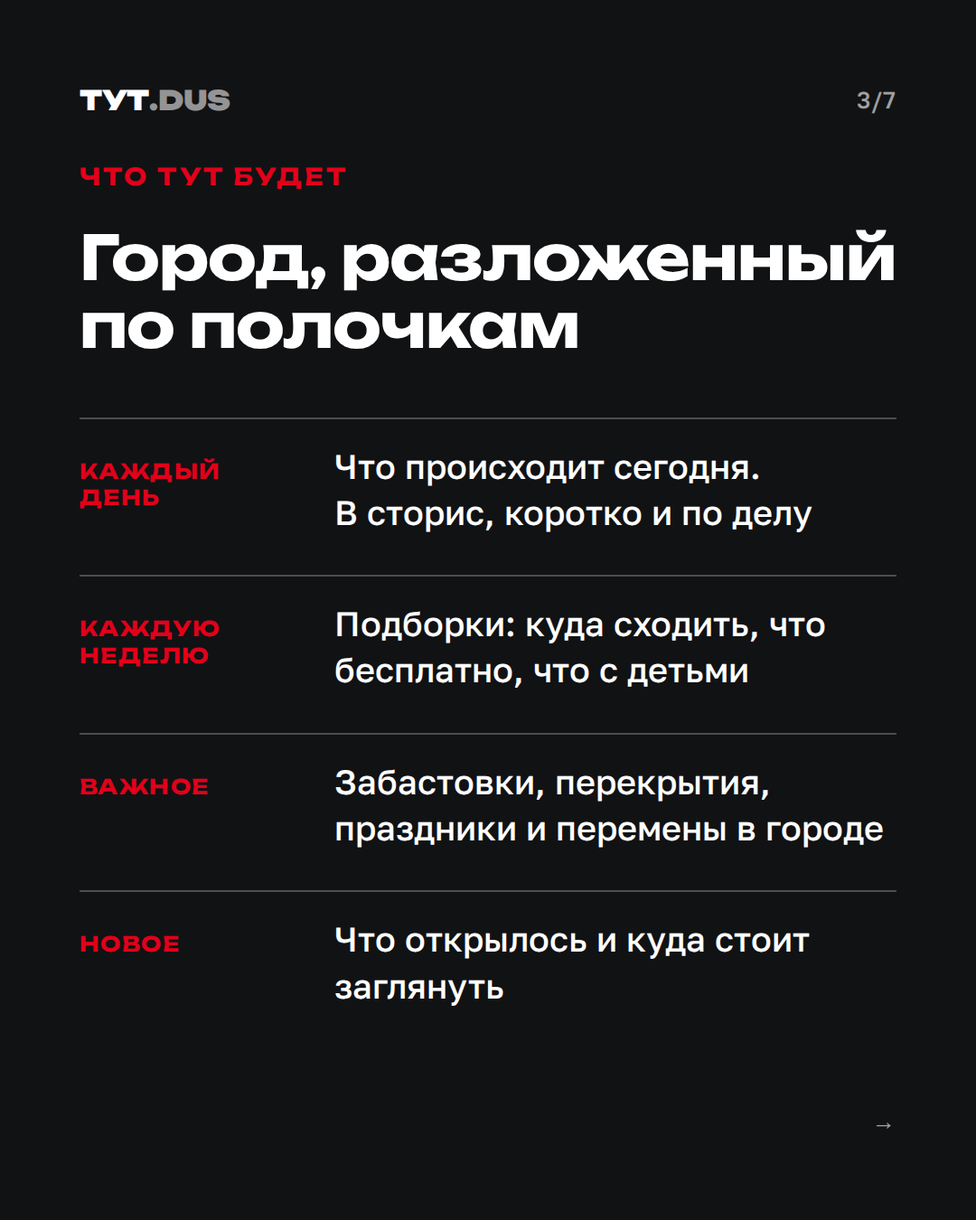
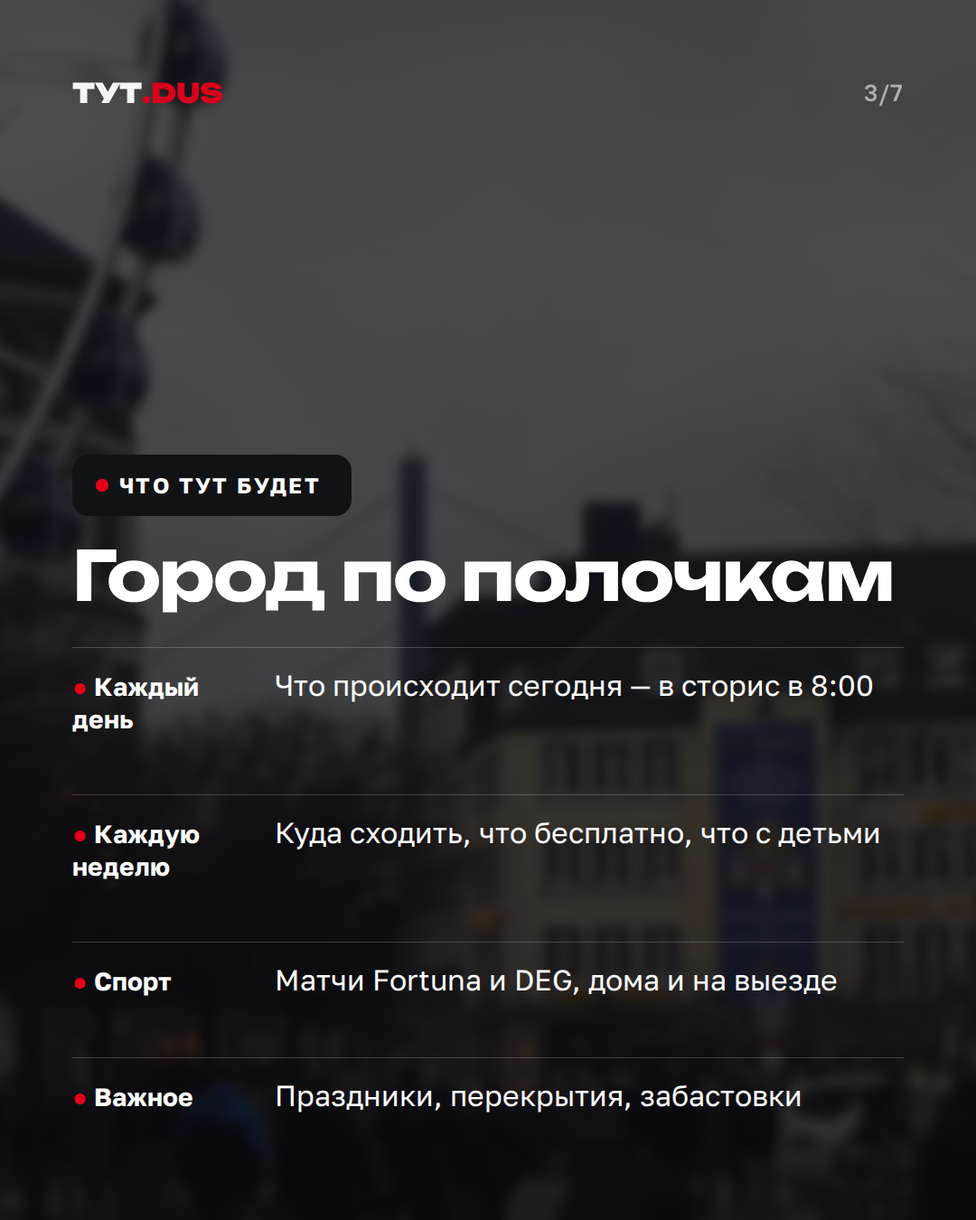
Design v2: city photos as background, red only as accent
Intro carousel, derby story and category stories re-rendered in v2
(design/v2.css). Commons photo credits added to the intro caption.

Claude-Session: https://claude.ai/code/session_01UxqiuRyKATWs1Brw29vXzP

diff --git a/design/stories-categories.html b/design/stories-categories.html
@@ -1,74 +1,34 @@
-<!doctype html>
-<html lang="ru"><head><meta charset="utf-8"><title>ТУТ.DUS — сторис категорий</title>
-<link rel="stylesheet" href="brand.css">
-<style>
-  /* Сторис 1080×1920. Сверху ~250px и снизу ~340px занимает интерфейс Instagram — там ничего важного. */
-  .story { height: 1920px; padding: 300px 88px 360px; justify-content: flex-start }
-  .story .icon { width: 200px; height: 200px; border-radius: 50%; border: 6px solid rgba(255,255,255,.9);
-    display: grid; place-items: center; margin-bottom: 64px }
-  .story .icon svg { width: 120px; height: 120px; fill: none; stroke: #fff; stroke-linecap: round; stroke-linejoin: round }
-  .story .icon-txt { font: 900 96px/1 var(--display); letter-spacing: -.03em }
-  .story .icon-txt small { font-size: 50px }
-  .story h1 { font-size: 96px }
-  .story .list { margin-top: 72px }
-  .story .item { grid-template-columns: 1fr; border-color: rgba(255,255,255,.3) }
-  .story .item .v { font-size: 40px }
-  .story .eyebrow { color: #fff; opacity: .75 }
-</style></head><body>
-<section class="slide red story" id="story-about">
-  <div class="icon"><svg viewBox="0 0 100 100" style="stroke-width:6"><path d="M50 92 C50 92 20 60 20 40 a30 30 0 0 1 60 0 C80 60 50 92 50 92Z"/><circle cx="50" cy="40" r="10"/></svg></div>
-  <div class="eyebrow">Актуальное · О нас</div>
-  <h1>ТУТ.DUS</h1>
-  <p class="lead">Дюссельдорф на русском: что происходит сегодня, куда пойти и&nbsp;к&nbsp;кому обратиться.</p>
-  <div class="list"><div class="item"><span class="v">Только про город</span></div><div class="item"><span class="v">Места в рейтингах не продаются</span></div><div class="item"><span class="v">Реклама всегда с пометкой</span></div></div>
-  <div class="bottom"><span class="logo">ТУТ<i>.DUS</i></span><span class="muted">@tut.dus</span></div>
-</section>
-<section class="slide red story" id="story-events">
-  <div class="icon"><svg viewBox="0 0 100 100" style="stroke-width:6"><rect x="14" y="20" width="72" height="66" rx="10"/><path d="M14 40 H86 M34 12 V28 M66 12 V28"/><circle cx="36" cy="60" r="3" fill="#fff"/><circle cx="50" cy="60" r="3" fill="#fff"/><circle cx="64" cy="60" r="3" fill="#fff"/><circle cx="36" cy="74" r="3" fill="#fff"/></svg></div>
-  <div class="eyebrow">Актуальное · Афиша</div>
-  <h1>Главное в&nbsp;городе</h1>
-  <p class="lead">Концерты, выставки, рынки и&nbsp;фестивали. Самое интересное за&nbsp;месяц.</p>
-  <div class="list"><div class="item"><span class="v">Сегодня — в сторис каждый день</span></div><div class="item"><span class="v">Неделя в городе — по понедельникам</span></div></div>
-  <div class="bottom"><span class="logo">ТУТ<i>.DUS</i></span><span class="muted">@tut.dus</span></div>
-</section>
-<section class="slide red story" id="story-free">
-  <div class="icon"><div class="txt icon-txt">0<small>€</small></div></div>
-  <div class="eyebrow">Актуальное · Бесплатно</div>
-  <h1>Город без&nbsp;билетов</h1>
-  <p class="lead">Бесплатные события, музеи и&nbsp;места, куда стоит заглянуть.</p>
-  <div class="list"><div class="item"><span class="v">Дни бесплатных музеев</span></div><div class="item"><span class="v">Праздники и уличные фестивали</span></div></div>
-  <div class="bottom"><span class="logo">ТУТ<i>.DUS</i></span><span class="muted">@tut.dus</span></div>
-</section>
-<section class="slide red story" id="story-kids">
-  <div class="icon"><svg viewBox="0 0 100 100" style="stroke-width:6"><ellipse cx="50" cy="38" rx="24" ry="28"/><path d="M46 66 L50 72 L54 66 M50 72 C44 80 56 84 50 94"/></svg></div>
-  <div class="eyebrow">Актуальное · С детьми</div>
-  <h1>Куда пойти с&nbsp;детьми</h1>
-  <p class="lead">Детские события, площадки, музеи и&nbsp;мастер-классы.</p>
-  <div class="list"><div class="item"><span class="v">По выходным и на каникулах</span></div><div class="item"><span class="v">Что бесплатно, а что по билетам</span></div></div>
-  <div class="bottom"><span class="logo">ТУТ<i>.DUS</i></span><span class="muted">@tut.dus</span></div>
-</section>
-<section class="slide red story" id="story-doctors">
-  <div class="icon"><svg viewBox="0 0 100 100" style="stroke-width:6"><path d="M38 14 H62 V38 H86 V62 H62 V86 H38 V62 H14 V38 H38 Z"/></svg></div>
-  <div class="eyebrow">Актуальное · Врачи</div>
-  <h1>Русско&shy;язычные врачи</h1>
-  <p class="lead">Справочник специалистов с&nbsp;хорошими оценками в&nbsp;Google и&nbsp;Doctolib.</p>
-  <div class="list"><div class="item"><span class="v">Скоро: напиши «врач» в директ</span></div><div class="item"><span class="v">Педиатры, стоматологи, терапевты</span></div></div>
-  <div class="bottom"><span class="logo">ТУТ<i>.DUS</i></span><span class="muted">@tut.dus</span></div>
-</section>
-<section class="slide red story" id="story-important">
-  <div class="icon"><svg viewBox="0 0 100 100" style="stroke-width:6"><path d="M50 12 L90 84 H10 Z"/><path d="M50 38 V60"/><circle cx="50" cy="72" r="3" fill="#fff"/></svg></div>
-  <div class="eyebrow">Актуальное · Важное</div>
-  <h1>Что нужно знать</h1>
-  <p class="lead">Забастовки транспорта, перекрытия, праздники и&nbsp;новые правила.</p>
-  <div class="list"><div class="item"><span class="v">Коротко и вовремя</span></div><div class="item"><span class="v">Только то, что касается жизни в городе</span></div></div>
-  <div class="bottom"><span class="logo">ТУТ<i>.DUS</i></span><span class="muted">@tut.dus</span></div>
-</section>
-<section class="slide red story" id="story-contact">
-  <div class="icon"><div class="txt icon-txt">@</div></div>
-  <div class="eyebrow">Актуальное · Связь</div>
-  <h1>Будем на&nbsp;связи</h1>
-  <p class="lead">Знаешь о&nbsp;событии? Хочешь сотрудничать? Пиши в&nbsp;директ.</p>
-  <div class="list"><div class="item"><span class="v">Организаторам и бизнесу</span></div><div class="item"><span class="v">Реклама всегда с пометкой</span></div></div>
-  <div class="bottom"><span class="logo">ТУТ<i>.DUS</i></span><span class="muted">@tut.dus</span></div>
-</section>
-</body></html>
+<!doctype html><html lang="ru"><head><meta charset="utf-8"><title>ТУТ.DUS — сторис категорий v2</title>
+<link rel="stylesheet" href="brand.css"><link rel="stylesheet" href="v2.css">
+<style> .story.v2 { height: 1920px; padding: 240px 80px 360px } .story.v2 h1 { font-size: 80px }
+  .icon { width: 150px; height: 150px; border-radius: 50%; background: rgba(255,255,255,.1); display:grid; place-items:center; margin-bottom: 40px }
+  .icon svg { width: 84px; height: 84px; fill: none; stroke: #e2001a; stroke-linecap: round; stroke-linejoin: round }
+  .icon .t { font: 900 64px/1 var(--display); color: #e2001a } .icon .t small { font-size: 34px }
+</style></head><body><section class="slide v2 story" id="story-about"><div class="bg" style="background-image:url(../library/photos/commons-rhein.jpg);filter:blur(8px);transform:scale(1.08)"></div><div class="shade full"></div>
+  <div class="top"><span class="logo">ТУТ<i>.DUS</i></span><span>@tut.dus</span></div>
+  <div class="low"><div class="icon"><svg viewBox="0 0 100 100" style="stroke-width:6"><path d="M50 92 C50 92 20 60 20 40 a30 30 0 0 1 60 0 C80 60 50 92 50 92Z"/><circle cx="50" cy="40" r="10"/></svg></div><div class="tag">Актуальное · О нас</div><h1>ТУТ.DUS</h1><p class="sub">Дюссельдорф на русском: что происходит сегодня, куда пойти и&nbsp;к&nbsp;кому обратиться.</p>
+  <div class="list"><div class="it" style="grid-template-columns:1fr"><span>Только про город</span></div><div class="it" style="grid-template-columns:1fr"><span>Места в рейтингах не продаются</span></div><div class="it" style="grid-template-columns:1fr"><span>Реклама всегда с пометкой</span></div></div></div></section>
+<section class="slide v2 story" id="story-events"><div class="bg" style="background-image:url(../library/photos/commons-burgplatz.jpg);filter:blur(8px);transform:scale(1.08)"></div><div class="shade full"></div>
+  <div class="top"><span class="logo">ТУТ<i>.DUS</i></span><span>@tut.dus</span></div>
+  <div class="low"><div class="icon"><svg viewBox="0 0 100 100" style="stroke-width:6"><rect x="14" y="20" width="72" height="66" rx="10"/><path d="M14 40 H86 M34 12 V28 M66 12 V28"/><circle cx="36" cy="60" r="3" fill="#e2001a"/><circle cx="50" cy="60" r="3" fill="#e2001a"/><circle cx="64" cy="60" r="3" fill="#e2001a"/><circle cx="36" cy="74" r="3" fill="#e2001a"/></svg></div><div class="tag">Актуальное · Афиша</div><h1>Главное в&nbsp;городе</h1><p class="sub">Концерты, выставки, рынки и&nbsp;фестивали. Самое интересное за&nbsp;месяц.</p>
+  <div class="list"><div class="it" style="grid-template-columns:1fr"><span>Сегодня — в сторис каждый день</span></div><div class="it" style="grid-template-columns:1fr"><span>Неделя в городе — по понедельникам</span></div></div></div></section>
+<section class="slide v2 story" id="story-free"><div class="bg" style="background-image:url(../library/photos/commons-altstadt.jpg);filter:blur(8px);transform:scale(1.08)"></div><div class="shade full"></div>
+  <div class="top"><span class="logo">ТУТ<i>.DUS</i></span><span>@tut.dus</span></div>
+  <div class="low"><div class="icon"><div class="t">0<small>€</small></div></div><div class="tag">Актуальное · Бесплатно</div><h1>Город без&nbsp;билетов</h1><p class="sub">Бесплатные события, музеи и&nbsp;места, куда стоит заглянуть.</p>
+  <div class="list"><div class="it" style="grid-template-columns:1fr"><span>Дни бесплатных музеев</span></div><div class="it" style="grid-template-columns:1fr"><span>Праздники и уличные фестивали</span></div></div></div></section>
+<section class="slide v2 story" id="story-kids"><div class="bg" style="background-image:url(../library/photos/commons-rhein.jpg);filter:blur(8px);transform:scale(1.08)"></div><div class="shade full"></div>
+  <div class="top"><span class="logo">ТУТ<i>.DUS</i></span><span>@tut.dus</span></div>
+  <div class="low"><div class="icon"><svg viewBox="0 0 100 100" style="stroke-width:6"><ellipse cx="50" cy="38" rx="24" ry="28"/><path d="M46 66 L50 72 L54 66 M50 72 C44 80 56 84 50 94"/></svg></div><div class="tag">Актуальное · С детьми</div><h1>Куда пойти с&nbsp;детьми</h1><p class="sub">Детские события, площадки, музеи и&nbsp;мастер-классы.</p>
+  <div class="list"><div class="it" style="grid-template-columns:1fr"><span>По выходным и на каникулах</span></div><div class="it" style="grid-template-columns:1fr"><span>Что бесплатно, а что по билетам</span></div></div></div></section>
+<section class="slide v2 story" id="story-doctors"><div class="bg" style="background-image:url(../library/photos/commons-burgplatz.jpg);filter:blur(8px);transform:scale(1.08)"></div><div class="shade full"></div>
+  <div class="top"><span class="logo">ТУТ<i>.DUS</i></span><span>@tut.dus</span></div>
+  <div class="low"><div class="icon"><svg viewBox="0 0 100 100" style="stroke-width:6"><path d="M38 14 H62 V38 H86 V62 H62 V86 H38 V62 H14 V38 H38 Z"/></svg></div><div class="tag">Актуальное · Врачи</div><h1>Русско&shy;язычные врачи</h1><p class="sub">Справочник специалистов с&nbsp;хорошими оценками в&nbsp;Google и&nbsp;Doctolib.</p>
+  <div class="list"><div class="it" style="grid-template-columns:1fr"><span>Скоро: напиши «врач» в директ</span></div><div class="it" style="grid-template-columns:1fr"><span>Педиатры, стоматологи, терапевты</span></div></div></div></section>
+<section class="slide v2 story" id="story-important"><div class="bg" style="background-image:url(../library/photos/commons-altstadt.jpg);filter:blur(8px);transform:scale(1.08)"></div><div class="shade full"></div>
+  <div class="top"><span class="logo">ТУТ<i>.DUS</i></span><span>@tut.dus</span></div>
+  <div class="low"><div class="icon"><svg viewBox="0 0 100 100" style="stroke-width:6"><path d="M50 12 L90 84 H10 Z"/><path d="M50 38 V60"/><circle cx="50" cy="72" r="3" fill="#e2001a"/></svg></div><div class="tag">Актуальное · Важное</div><h1>Что нужно знать</h1><p class="sub">Забастовки транспорта, перекрытия, праздники и&nbsp;новые правила.</p>
+  <div class="list"><div class="it" style="grid-template-columns:1fr"><span>Коротко и вовремя</span></div><div class="it" style="grid-template-columns:1fr"><span>Только то, что касается жизни в городе</span></div></div></div></section>
+<section class="slide v2 story" id="story-contact"><div class="bg" style="background-image:url(../library/photos/commons-rhein.jpg);filter:blur(8px);transform:scale(1.08)"></div><div class="shade full"></div>
+  <div class="top"><span class="logo">ТУТ<i>.DUS</i></span><span>@tut.dus</span></div>
+  <div class="low"><div class="icon"><div class="t">@</div></div><div class="tag">Актуальное · Связь</div><h1>Будем на&nbsp;связи</h1><p class="sub">Знаешь о&nbsp;событии? Хочешь сотрудничать? Пиши в&nbsp;директ.</p>
+  <div class="list"><div class="it" style="grid-template-columns:1fr"><span>Организаторам и бизнесу</span></div><div class="it" style="grid-template-columns:1fr"><span>Реклама всегда с пометкой</span></div></div></div></section></body></html>

diff --git a/design/01-intro-v2.html b/design/01-intro-v2.html
@@ -1,0 +1,59 @@
+<!doctype html><html lang="ru"><head><meta charset="utf-8"><title>ТУТ.DUS — вводный пост v2</title>
+<link rel="stylesheet" href="brand.css"><link rel="stylesheet" href="v2.css">
+<style> .slide.v2 { padding: 88px 80px 96px } .v2 .bottom { margin-top: 40px } </style></head><body>
+
+<section class="slide v2" id="s1"><div class="bg" style="background-image:url(../library/photos/commons-rhein.jpg)"></div><div class="shade"></div>
+  <div class="top"><span class="logo">ТУТ<i>.DUS</i></span><span class="page">1/7</span></div>
+  <div class="low"><div class="tag">Дюссельдорф на русском</div>
+    <h1 style="font-size:88px">Что происходит в&nbsp;городе — каждый день</h1>
+    <p class="sub">Куда пойти, что важно знать и к&nbsp;кому обратиться. Коротко и&nbsp;по&nbsp;делу.</p></div>
+  <div class="bottom"><span class="muted">Листай →</span></div></section>
+
+<section class="slide v2" id="s2"><div class="bg" style="background-image:url(../library/photos/commons-burgplatz.jpg)"></div><div class="shade"></div>
+  <div class="top"><span class="logo">ТУТ<i>.DUS</i></span><span class="page">2/7</span></div>
+  <div class="low"><div class="tag">Зачем мы здесь</div>
+    <h1>О рыцарском турнире в&nbsp;Эллере мы узнали из&nbsp;баннера на&nbsp;улице</h1>
+    <p class="sub">События разбросаны по немецким сайтам, Facebook и&nbsp;десяткам чатов. Мы собираем всё в&nbsp;одном месте.</p></div></section>
+
+<section class="slide v2" id="s3"><div class="bg" style="background-image:url(../library/photos/commons-altstadt.jpg);filter:blur(6px);transform:scale(1.06)"></div><div class="shade full"></div>
+  <div class="top"><span class="logo">ТУТ<i>.DUS</i></span><span class="page">3/7</span></div>
+  <div class="low"><div class="tag">Что тут будет</div><h1>Город по полочкам</h1>
+    <div class="list">
+      <div class="it"><b>Каждый день</b><span>Что происходит сегодня — в сторис в 8:00</span></div>
+      <div class="it"><b>Каждую неделю</b><span>Куда сходить, что бесплатно, что с детьми</span></div>
+      <div class="it"><b>Спорт</b><span>Матчи Fortuna и DEG, дома и на выезде</span></div>
+      <div class="it"><b>Важное</b><span>Праздники, перекрытия, забастовки</span></div>
+    </div></div></section>
+
+<section class="slide v2" id="s4"><div class="bg" style="background-image:url(../library/photos/commons-burgplatz.jpg);filter:blur(6px);transform:scale(1.06)"></div><div class="shade full"></div>
+  <div class="top"><span class="logo">ТУТ<i>.DUS</i></span><span class="page">4/7</span></div>
+  <div class="low"><div class="tag">Скоро</div><h1>Русскоязычные врачи и&nbsp;специалисты</h1>
+    <p class="sub">Справочник с&nbsp;хорошими оценками в&nbsp;Google и&nbsp;Doctolib. Напиши слово в&nbsp;директ — пришлём список.</p>
+    <div class="chips"><span class="hot">педиатр</span><span>стоматолог</span><span>терапевт</span><span>юрист</span></div></div></section>
+
+<section class="slide v2" id="s5"><div class="bg" style="background-image:url(../library/photos/commons-rhein.jpg);filter:blur(6px);transform:scale(1.06)"></div><div class="shade full"></div>
+  <div class="top"><span class="logo">ТУТ<i>.DUS</i></span><span class="page">5/7</span></div>
+  <div class="low"><div class="tag">Наши правила</div><h1>Честно и&nbsp;по&nbsp;делу</h1>
+    <div class="list">
+      <div class="it"><b>01</b><span>Только про город, без личной жизни ведущих</span></div>
+      <div class="it"><b>02</b><span>Места в&nbsp;рейтингах не&nbsp;продаются</span></div>
+      <div class="it"><b>03</b><span>Реклама всегда с&nbsp;пометкой «реклама»</span></div>
+      <div class="it"><b>04</b><span>Проверяем информацию перед публикацией</span></div>
+    </div></div></section>
+
+<section class="slide v2" id="s6"><div class="bg" style="background-image:url(../library/photos/commons-altstadt.jpg)"></div><div class="shade"></div>
+  <div class="top"><span class="logo">ТУТ<i>.DUS</i></span><span class="page">6/7</span></div>
+  <div class="low"><div class="tag">Для кого</div><h1>Для всех, кому удобнее читать по-русски</h1>
+    <p class="sub">Давно здесь или только переехал, один, с&nbsp;семьёй или с&nbsp;детьми. И&nbsp;для соседей: Нойс, Ратинген, Хильден, Меербуш.</p>
+    <div class="chips"><span>Altstadt</span><span>Bilk</span><span>Oberkassel</span><span>Pempelfort</span><span>Flingern</span><span>Benrath</span><span class="hot">Eller</span><span>Gerresheim</span></div></div></section>
+
+<section class="slide v2" id="s7"><div class="bg" style="background-image:url(../library/photos/commons-rhein.jpg)"></div><div class="shade"></div>
+  <div class="top"><span class="logo">ТУТ<i>.DUS</i></span><span class="page">7/7</span></div>
+  <div class="low"><div class="tag">Будем на связи</div><h1 style="font-size:96px">Увидимся <span style="color:var(--red)">тут.</span></h1>
+    <div class="list">
+      <div class="it"><b>Подпишись</b><span>и включи уведомления</span></div>
+      <div class="it"><b>Знаешь событие?</b><span>Пришли в директ — расскажем всем</span></div>
+      <div class="it"><b>Сотрудничество</b><span>Организаторам и бизнесу — в директ</span></div>
+    </div>
+    <p class="sub" style="font-size:28px">Telegram: t.me/tutdus</p></div></section>
+</body></html>

diff --git a/design/v2.css b/design/v2.css
@@ -1,0 +1,26 @@
+/* ТУТ.DUS v2: город на фоне, красный — только акцент (≤10% кадра). Подключать после brand.css. */
+.v2 { background: var(--ink); color: var(--white); font-family: var(--body) }
+.v2 .bg { position: absolute; inset: 0; background-size: cover; background-position: center }
+.v2 .shade { position: absolute; inset: 0;
+  background: linear-gradient(to bottom, rgba(0,0,0,.40) 0%, rgba(0,0,0,0) 22%, rgba(0,0,0,.10) 42%, rgba(12,13,15,.86) 74%, rgba(12,13,15,.96) 100%) }
+.v2 .shade.full { background: rgba(12,13,15,.72) }
+.v2 > *:not(.bg):not(.shade) { position: relative }
+.v2 .top { font: 500 26px/1 var(--body); opacity: .95 }
+.v2 .logo { font: 900 30px/1 var(--display) } .v2 .logo i { font-style: normal; color: var(--red); opacity: 1 }
+.v2 .low { margin-top: auto; display: flex; flex-direction: column }
+.v2 .tag { display: inline-flex; gap: 12px; align-items: center; align-self: flex-start; font: 600 24px/1 var(--body);
+  letter-spacing: .1em; text-transform: uppercase; margin-bottom: 26px; color: var(--white); opacity: 1 }
+.v2 .tag::before { content: ""; width: 14px; height: 14px; border-radius: 50%; background: var(--red) }
+.v2 h1, .v2 .h { font: 700 76px/1.04 var(--display); letter-spacing: -.025em; text-wrap: balance }
+.v2 .sub { font: 400 34px/1.42 var(--body); opacity: .86; margin-top: 24px; max-width: 880px }
+.v2 .list { display: grid; margin-top: 40px }
+.v2 .it { display: grid; grid-template-columns: 200px 1fr; gap: 24px; padding: 20px 0; border-top: 1px solid rgba(255,255,255,.2); align-items: baseline }
+.v2 .it b { font: 600 28px/1.3 var(--body); color: var(--white) } .v2 .it b::before { content: "● "; color: var(--red) }
+.v2 .it span { font: 400 32px/1.35 var(--body) } .v2 .it small { display: block; opacity: .62; font-size: 26px; margin-top: 4px }
+.v2 .pill { margin-top: 28px; align-self: flex-start; background: rgba(255,255,255,.12); border-left: 6px solid var(--red);
+  padding: 18px 24px; border-radius: 12px; font: 500 28px/1.35 var(--body) }
+.v2 .chips { display: flex; flex-wrap: wrap; gap: 12px; margin-top: 36px }
+.v2 .chips span { font: 500 26px/1 var(--body); padding: 14px 20px; border-radius: 99px; background: rgba(255,255,255,.12) }
+.v2 .chips span.hot { background: var(--red) }
+.v2 .num { font: 700 26px/1 var(--display); color: var(--red) }
+.v2 .page { opacity: .6 }
